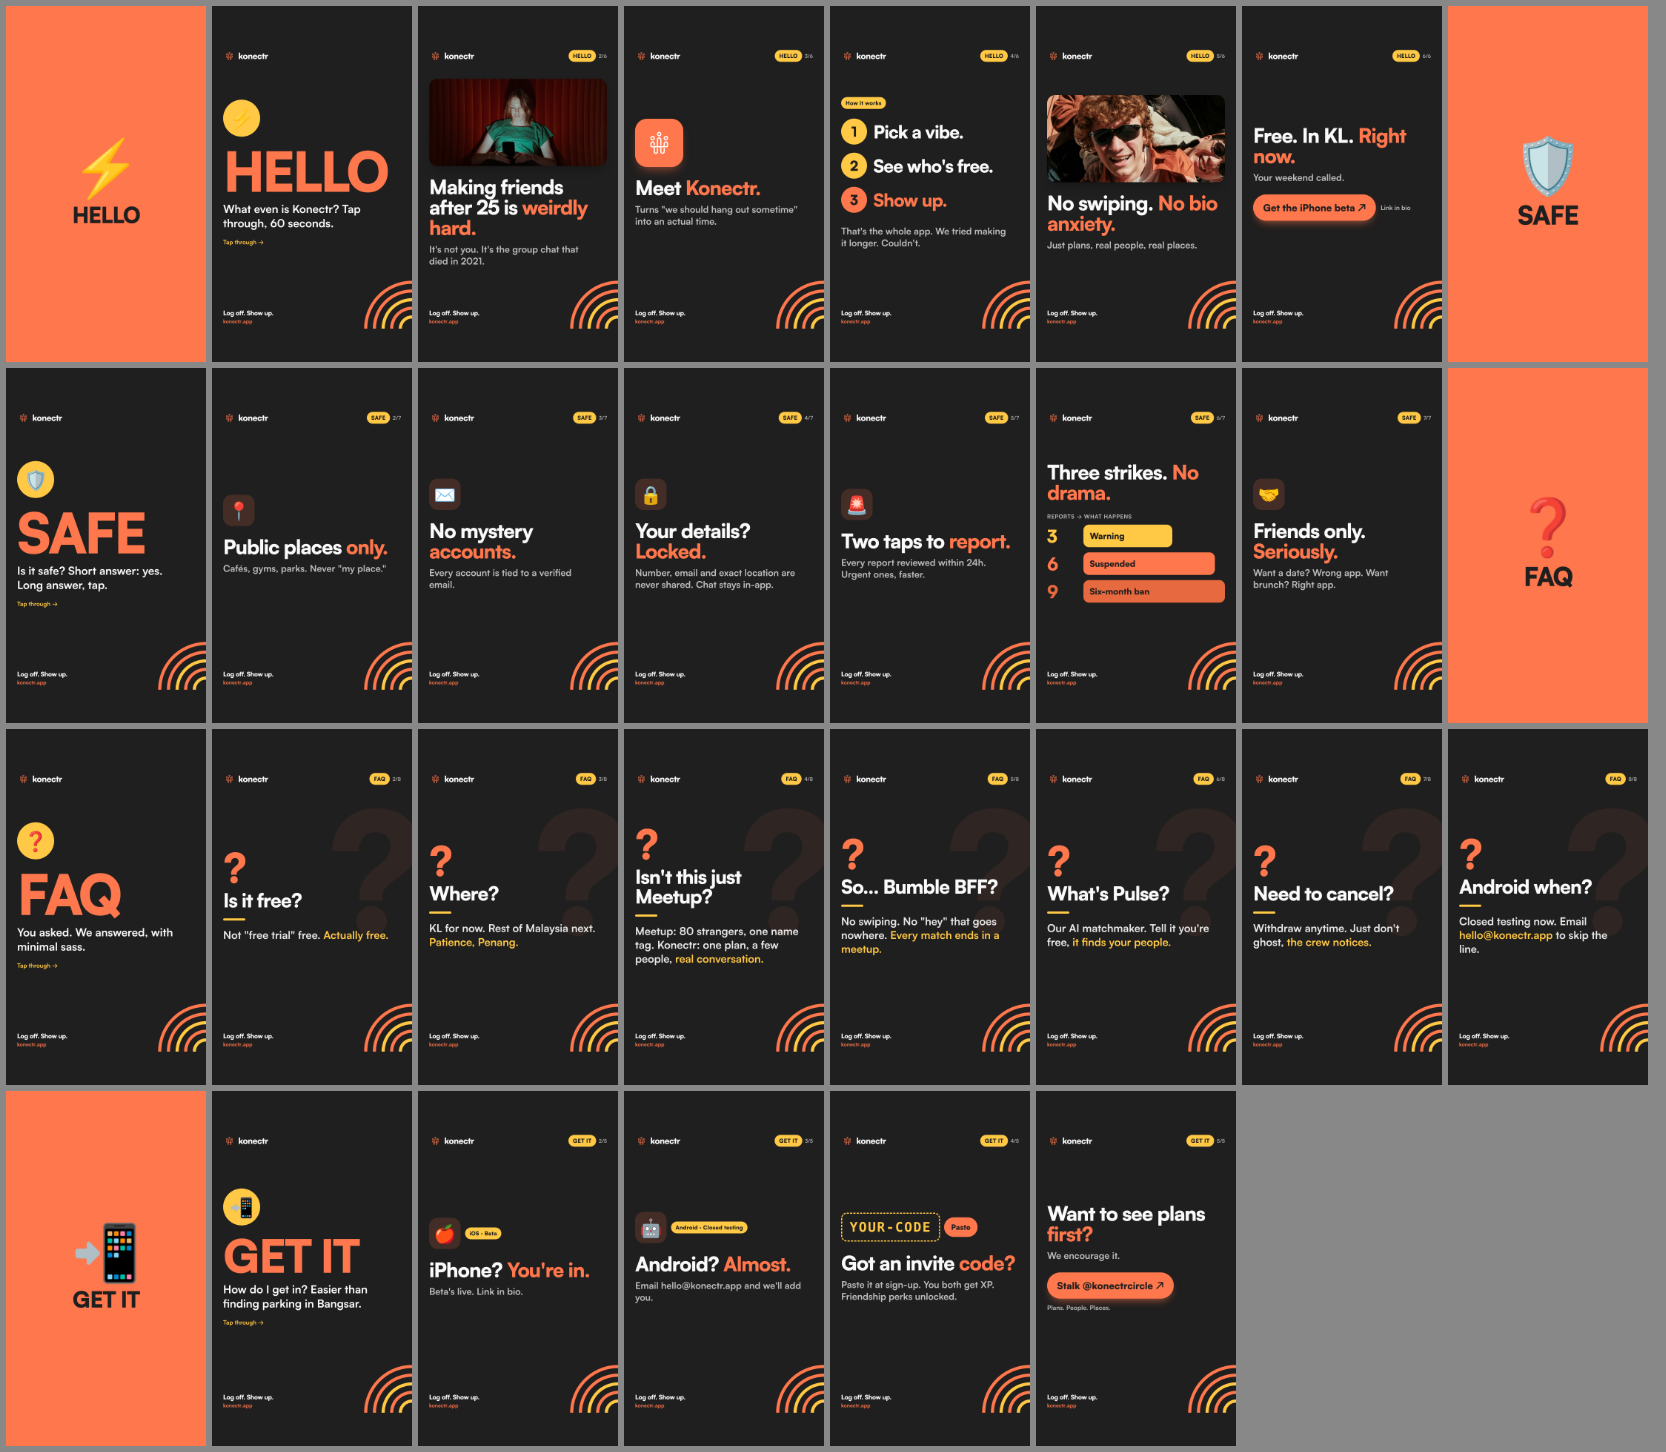
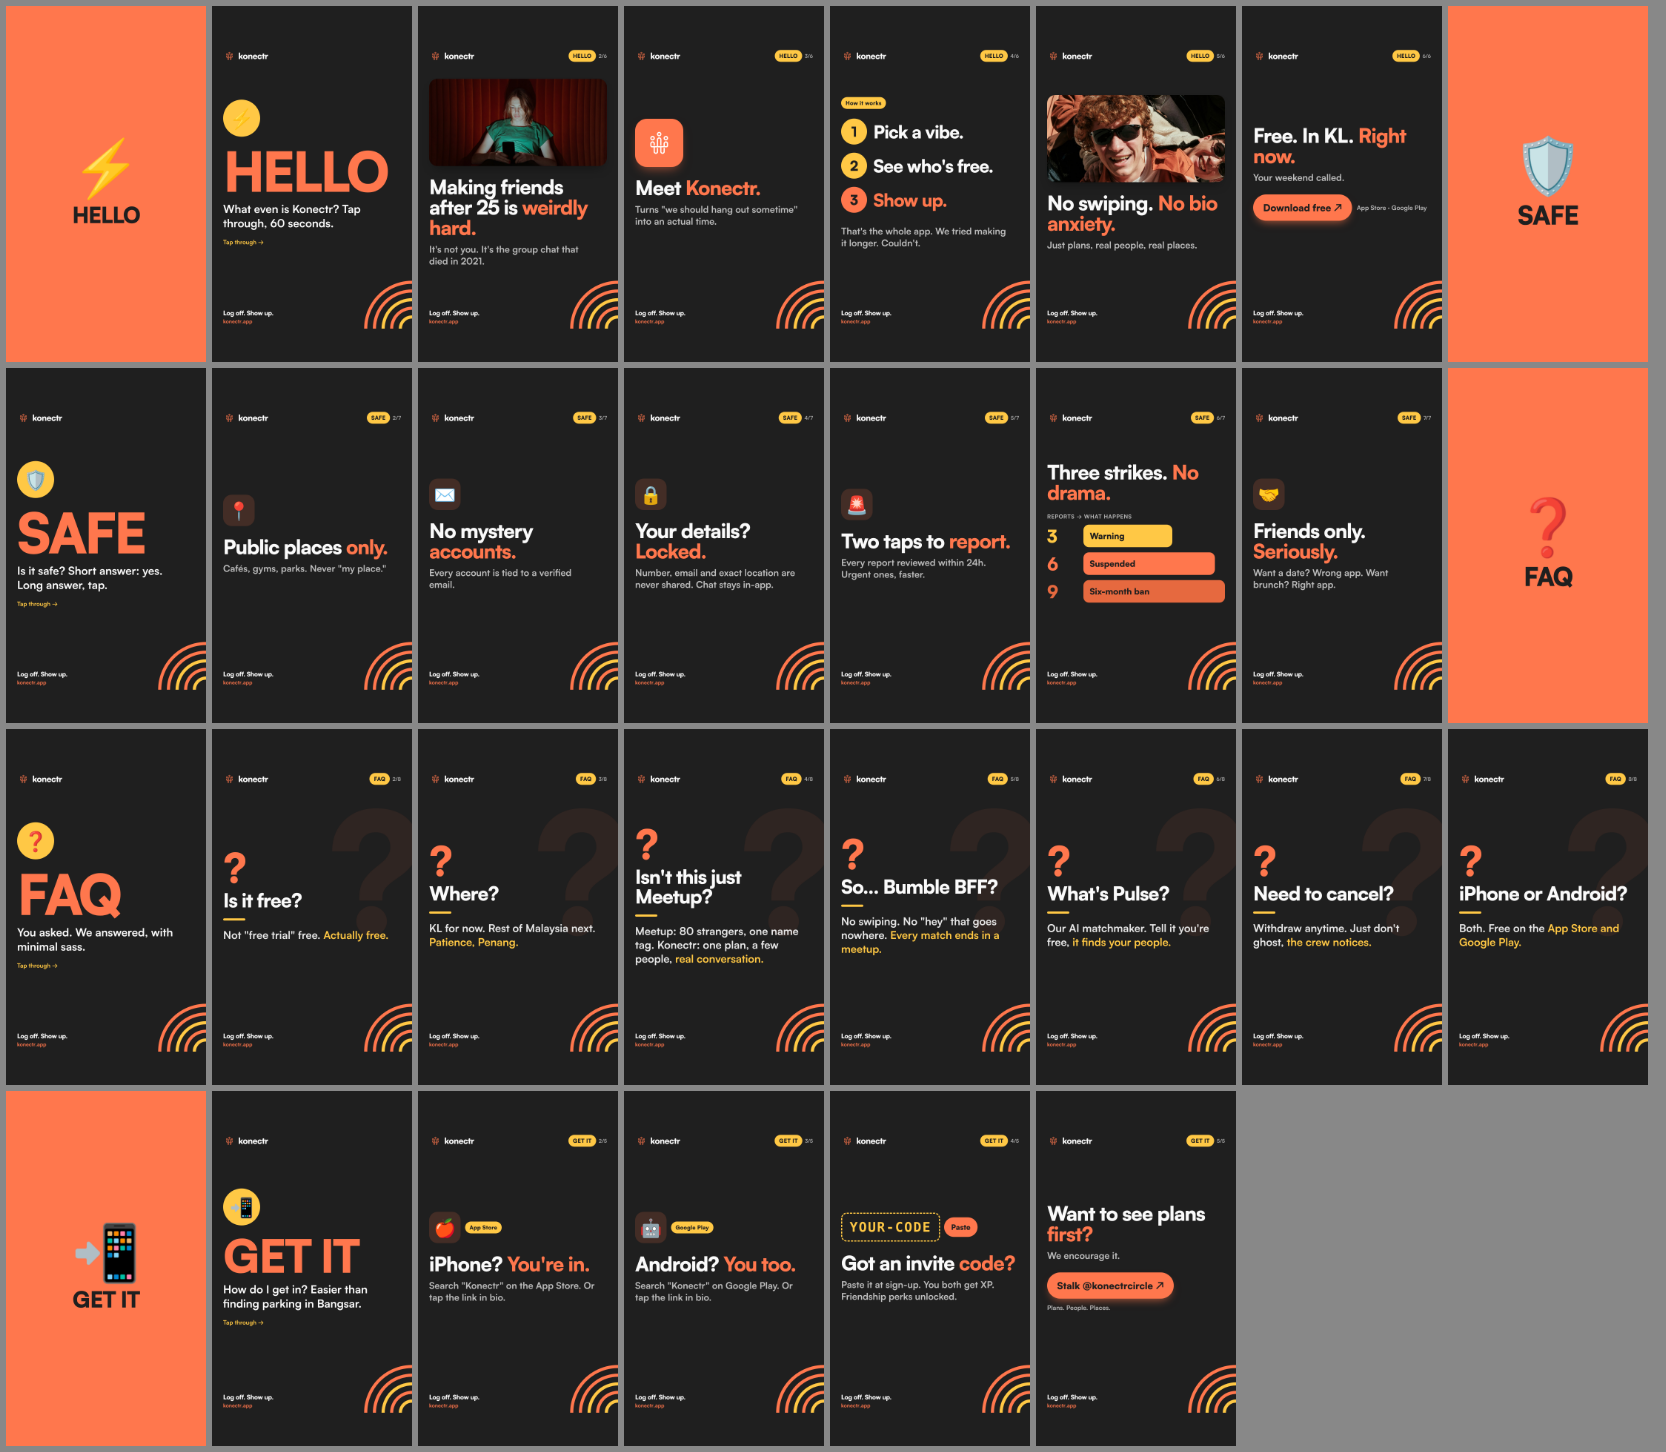
Highlights: iOS and Android are live on the stores
Replace beta / closed-testing copy on HELLO, FAQ and GET IT slides with
App Store + Google Play, and refresh the contact sheets.

Claude-Session: https://claude.ai/code/session_019eywpppEquLjQFCe6J1KyV

Changed region(s): [[0.2497, 0.8368, 0.4682, 0.8988], [0.8739, 0.5579, 0.9676, 0.6508], [0.7803, 0.124, 0.8427, 0.155]]

diff --git a/marketing/social-highlights/content.js b/marketing/social-highlights/content.js
@@ -10,7 +10,7 @@ const APP = {
       { t: 'logo', big: 'Meet *Konectr.*', small: 'Turns "we should hang out sometime" into an actual time.' },
       { t: 'steps', steps: ['Pick a vibe.', "See who's free.", 'Show up.'], small: "That's the whole app. We tried making it longer. Couldn't." },
       { t: 'photo', img: H + 'after.jpg', big: 'No swiping. *No bio anxiety.*', small: 'Just plans, real people, real places.' },
-      { t: 'cta', big: 'Free. In KL. *Right now.*', small: 'Your weekend called.', button: 'Get the iPhone beta', note: 'Link in bio' },
+      { t: 'cta', big: 'Free. In KL. *Right now.*', small: 'Your weekend called.', button: 'Download free', note: 'App Store · Google Play' },
     ]},
     { key: 'SAFE', emoji: '🛡', slides: [
       { t: 'title', sub: 'Is it safe? Short answer: yes. Long answer, tap.' },
@@ -29,12 +29,12 @@ const APP = {
       { t: 'qa', q: 'So... Bumble BFF?', a: 'No swiping. No "hey" that goes nowhere. *Every match ends in a meetup.*' },
       { t: 'qa', q: "What's Pulse?", a: 'Our AI matchmaker. Tell it you\'re free, *it finds your people.*' },
       { t: 'qa', q: 'Need to cancel?', a: 'Withdraw anytime. Just don\'t ghost, *the crew notices.*' },
-      { t: 'qa', q: 'Android when?', a: 'Closed testing now. Email *hello@konectr.app* to skip the line.' },
+      { t: 'qa', q: 'iPhone or Android?', a: 'Both. Free on the *App Store and Google Play.*' },
     ]},
     { key: 'GET IT', emoji: '📲', slides: [
       { t: 'title', sub: 'How do I get in? Easier than finding parking in Bangsar.' },
-      { t: 'icon', icon: '🍎', chip: 'iOS · Beta', big: 'iPhone? *You\'re in.*', small: "Beta's live. Link in bio." },
-      { t: 'icon', icon: '🤖', chip: 'Android · Closed testing', big: 'Android? *Almost.*', small: 'Email hello@konectr.app and we\'ll add you.' },
+      { t: 'icon', icon: '🍎', chip: 'App Store', big: 'iPhone? *You\'re in.*', small: 'Search "Konectr" on the App Store. Or tap the link in bio.' },
+      { t: 'icon', icon: '🤖', chip: 'Google Play', big: 'Android? *You too.*', small: 'Search "Konectr" on Google Play. Or tap the link in bio.' },
       { t: 'code', big: 'Got an invite *code?*', small: 'Paste it at sign-up. You both get XP. Friendship perks unlocked.' },
       { t: 'cta', big: 'Want to see plans *first?*', small: 'We encourage it.', button: 'Stalk @konectrcircle', note: 'Plans. People. Places.' },
     ]},
@@ -72,7 +72,7 @@ const CIRCLE = {
     ]},
     { key: 'ASK', emoji: '❓', slides: [
       { t: 'title', img: H + 'step-2.jpg', sub: 'Questions? Good. We\'ve got answers.' },
-      { t: 'qa', q: 'Do I need the app?', a: 'Nope. *Tap, RSVP, done.* (The app has perks though. Just saying.)' },
+      { t: 'qa', q: 'Do I need the app?', a: 'Nope. *Tap, RSVP, done.* (The free app has perks though. Just saying.)' },
       { t: 'qa', q: 'Is it free?', a: '*Free free.* Your kopi is on you though.' },
       { t: 'qa', q: "I don't know anyone.", a: 'Perfect. Neither did everyone else. *That\'s the point.*' },
       { t: 'qa', q: "I'm an introvert.", a: 'Same. *Small groups* plus an activity to hide behind.' },

diff --git a/marketing/social-highlights/README.md b/marketing/social-highlights/README.md
@@ -19,5 +19,5 @@ NODE_PATH=$(npm root -g) node render.js          # → out/
 NODE_PATH=$(npm root -g) node sheet.js "out/Konectr Circle" sheet.png 200   # contact sheet
 ```
 
-Facts on the slides (verify before re-posting): accounts are email-verified, iOS is on the
-beta, Android is in closed testing, KL only, strikes 3/6/9, reports reviewed within 24h.
+Facts on the slides (verify before re-posting): accounts are email-verified, live on the
+App Store and Google Play, KL only, strikes 3/6/9, reports reviewed within 24h.
